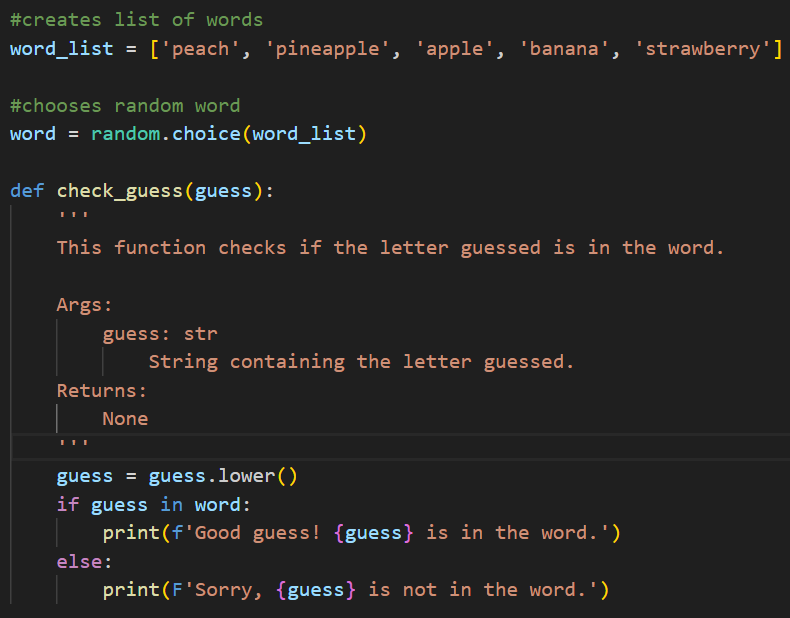
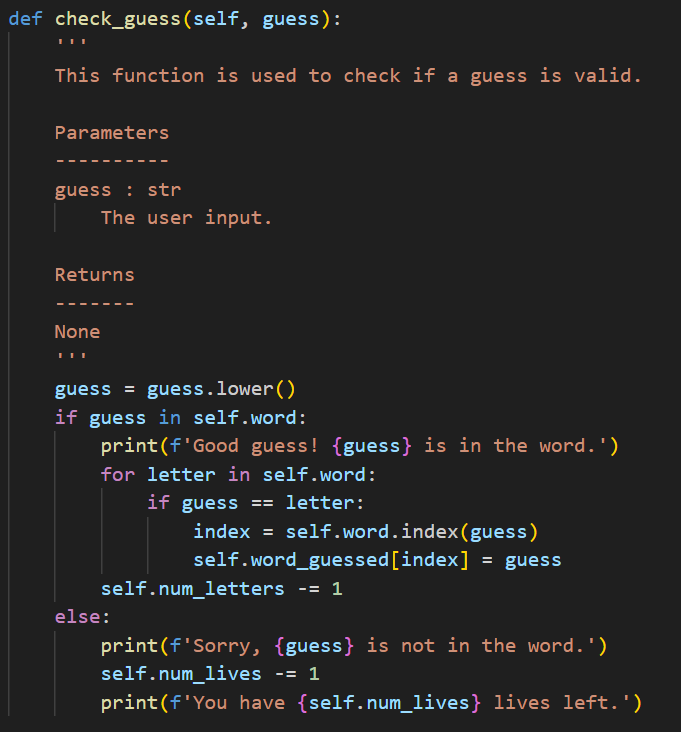
Removes milestone_3.py. Updated README.md. Creates Hangman class in milestone_4.py. Updates screenshots.

diff --git a/hangman/milestone_4.py b/hangman/milestone_4.py
@@ -1,0 +1,96 @@
+import random
+
+word_list = ['peach', 'pineapple', 'apple', 'banana', 'strawberry']
+
+class Hangman:
+    '''
+    This class is used to play a game of hangman.
+    
+    Attributes
+    ----------
+    word_list : list
+        the list of words that might be chosen by the hangman
+    word : str
+        the chosen hangman word
+    word_guessed : list
+        list of letters correctly guessed
+    num_letters : int
+        number of unique letters left to guess
+    num_lives : int
+        number of lives the player has (default is 5)
+    list_of_guesses : list
+        list of letters the player has guessed
+
+    Methods
+    -------
+    check_guess(guess):
+        Checks if the letter guessed is in the word.
+        If not, the player loses a life. 
+        If it is, the letter is appended to word_guessed.
+    ask_for_input():
+        Gathers user guess. 
+        Iterates until valid guess is chosen.
+        Appends to list_of_guesses.
+    '''
+    def __init__(self, word_list, num_lives = 5):
+        '''
+        See help(Hangman) for accurate signature
+        '''
+        self.word_list = word_list
+        self.word = random.choice(self.word_list)
+        self.word_guessed = len(self.word) * ['_']
+        self.num_letters = len(set(self.word) - {letter for letter in self.word_guessed if letter.isalpha})
+        self.num_lives = num_lives
+        self.list_of_guesses = []
+
+    def check_guess(self, guess):
+        '''
+        This function is used to check if a guess is valid.
+
+        Parameters
+        ----------
+        guess : str
+            The user input.
+
+        Returns
+        -------
+        None
+        '''
+        guess = guess.lower()
+        if guess in self.word:
+            print(f'Good guess! {guess} is in the word.')
+            for letter in self.word:
+                if guess == letter:
+                    index = self.word.index(guess)
+                    self.word_guessed[index] = guess
+            self.num_letters -= 1
+        else:
+            print(f'Sorry, {guess} is not in the word.')
+            self.num_lives -= 1
+            print(f'You have {self.num_lives} lives left.')
+            
+    def ask_for_input(self):
+        '''
+        This function is used to gather the user input.
+        It then assesses if the input is valid.
+        
+        Parameters
+        ----------
+        None
+
+        Returns
+        -------
+        None
+        '''
+        while True:
+            guess = input('Enter a letter: ')
+            if guess.isalpha() == False or len(guess) != 1:
+               print('Invalid letter. Please, enter a single alphabetical character.') 
+            elif guess in self.list_of_guesses:
+                print('You already tried that letter!')
+            else:
+                self.check_guess(guess)
+                self.list_of_guesses.append(guess)
+
+hangman1 = Hangman(word_list)
+hangman1.ask_for_input()

diff --git a/README.md b/README.md
@@ -1,7 +1,6 @@
 # Hangman
 
 This is a revised version of the classic game of hangman. This one-player game allows the user to play against the computer, where the computer thinks of a word and the user can try to outwit it. The user enters one letter at a time, until they have guessed the chosen word, or lost all their lives.
-This game was made in Python.
 
 ## 1. Aims
 
@@ -13,19 +12,37 @@ Simply download the game file, run it in your terminal, and enjoy the game!
 
 ## 3. The Code
 
-### 3.1 Stage 1
+This game was created using OOP in Python. The Hangman class and its attributed and methods are detailed below.
 
-- The first stage in this project is obtaining user input, and checking if it's valid. The function used for this is shown below.
+### 3.1. Initialising the class
 
-![Screenshot of .py file showing the function that asks for user input, then checks if its a single letter.](ask_for_input_screenshot.png)
+The class has six attributes, shown below.
 
-- The user input is assigned as the **guess** variable to be parsed throughout the functions.
+![Screenshot of .py file showing the instance attributes.](params_screenshot.png)
+
+- **word_list**: the list of words that might be chosen by the hangman
+- **word**: the chosen hangman word
+- **word_guessed**: a list of _ as placeholders for the correctly guessed letters
+- **num_letters**: numbers of letters left to guess (initially the number of unique letters in **word**)
+- **num_lives**: number of lives (default = 5)
+- **list_of_guesses**: empty list for guessed letters to be stored in
+
+### 3.2. ask_for_input
+
+- The first stage in this game is obtaining user input, and checking if it's valid. The method used for this is shown below.
+
+![Screenshot of .py file showing the method that asks for user input, then checks if its a single letter and if the letter has already been guessed. Once it has a valid input, it calls the check_guess method, then appends the letter to the list_of_guesses.](ask_for_input_screenshot.png)
+
+- The user input is assigned to the **guess** variable to be parsed throughout the functions.
 - The if statement checks whether the **guess** is alphabetical, and that it is only one letter.
-- If the input does not meet this criteria, the user is prompted to enter a new input.
+- If the input does not meet this criteria, or the user has already tried this letter, the user is prompted to enter a new input.
+- If the guess passes both checks,
+the **check_guess()** method is called. The code for this is shown below.
 
-- If the input is valid, the **check_guess()** function is called. The code for this is shown below.
+### 3.3. check_guess
 
-![Screenshot of .py file showing the function that converts the letter to lower case, then checks if the letter is in the word.](check_guess_screenshot.png)
+![Screenshot of .py file showing the method that converts the letter to lower case, then checks if the letter is in the word.](check_guess_screenshot.png)
 
-- The word is chosen at random from a list of given words and assigned to the **word** variable.
-- The strings are printed to easily and directly show the user if their guess is correct.
+- The guess is convereted to lower case
+- If the guess is correct, the letter is added to the word_guessed in place
+- If the guess is incorrect, the player loses a life
